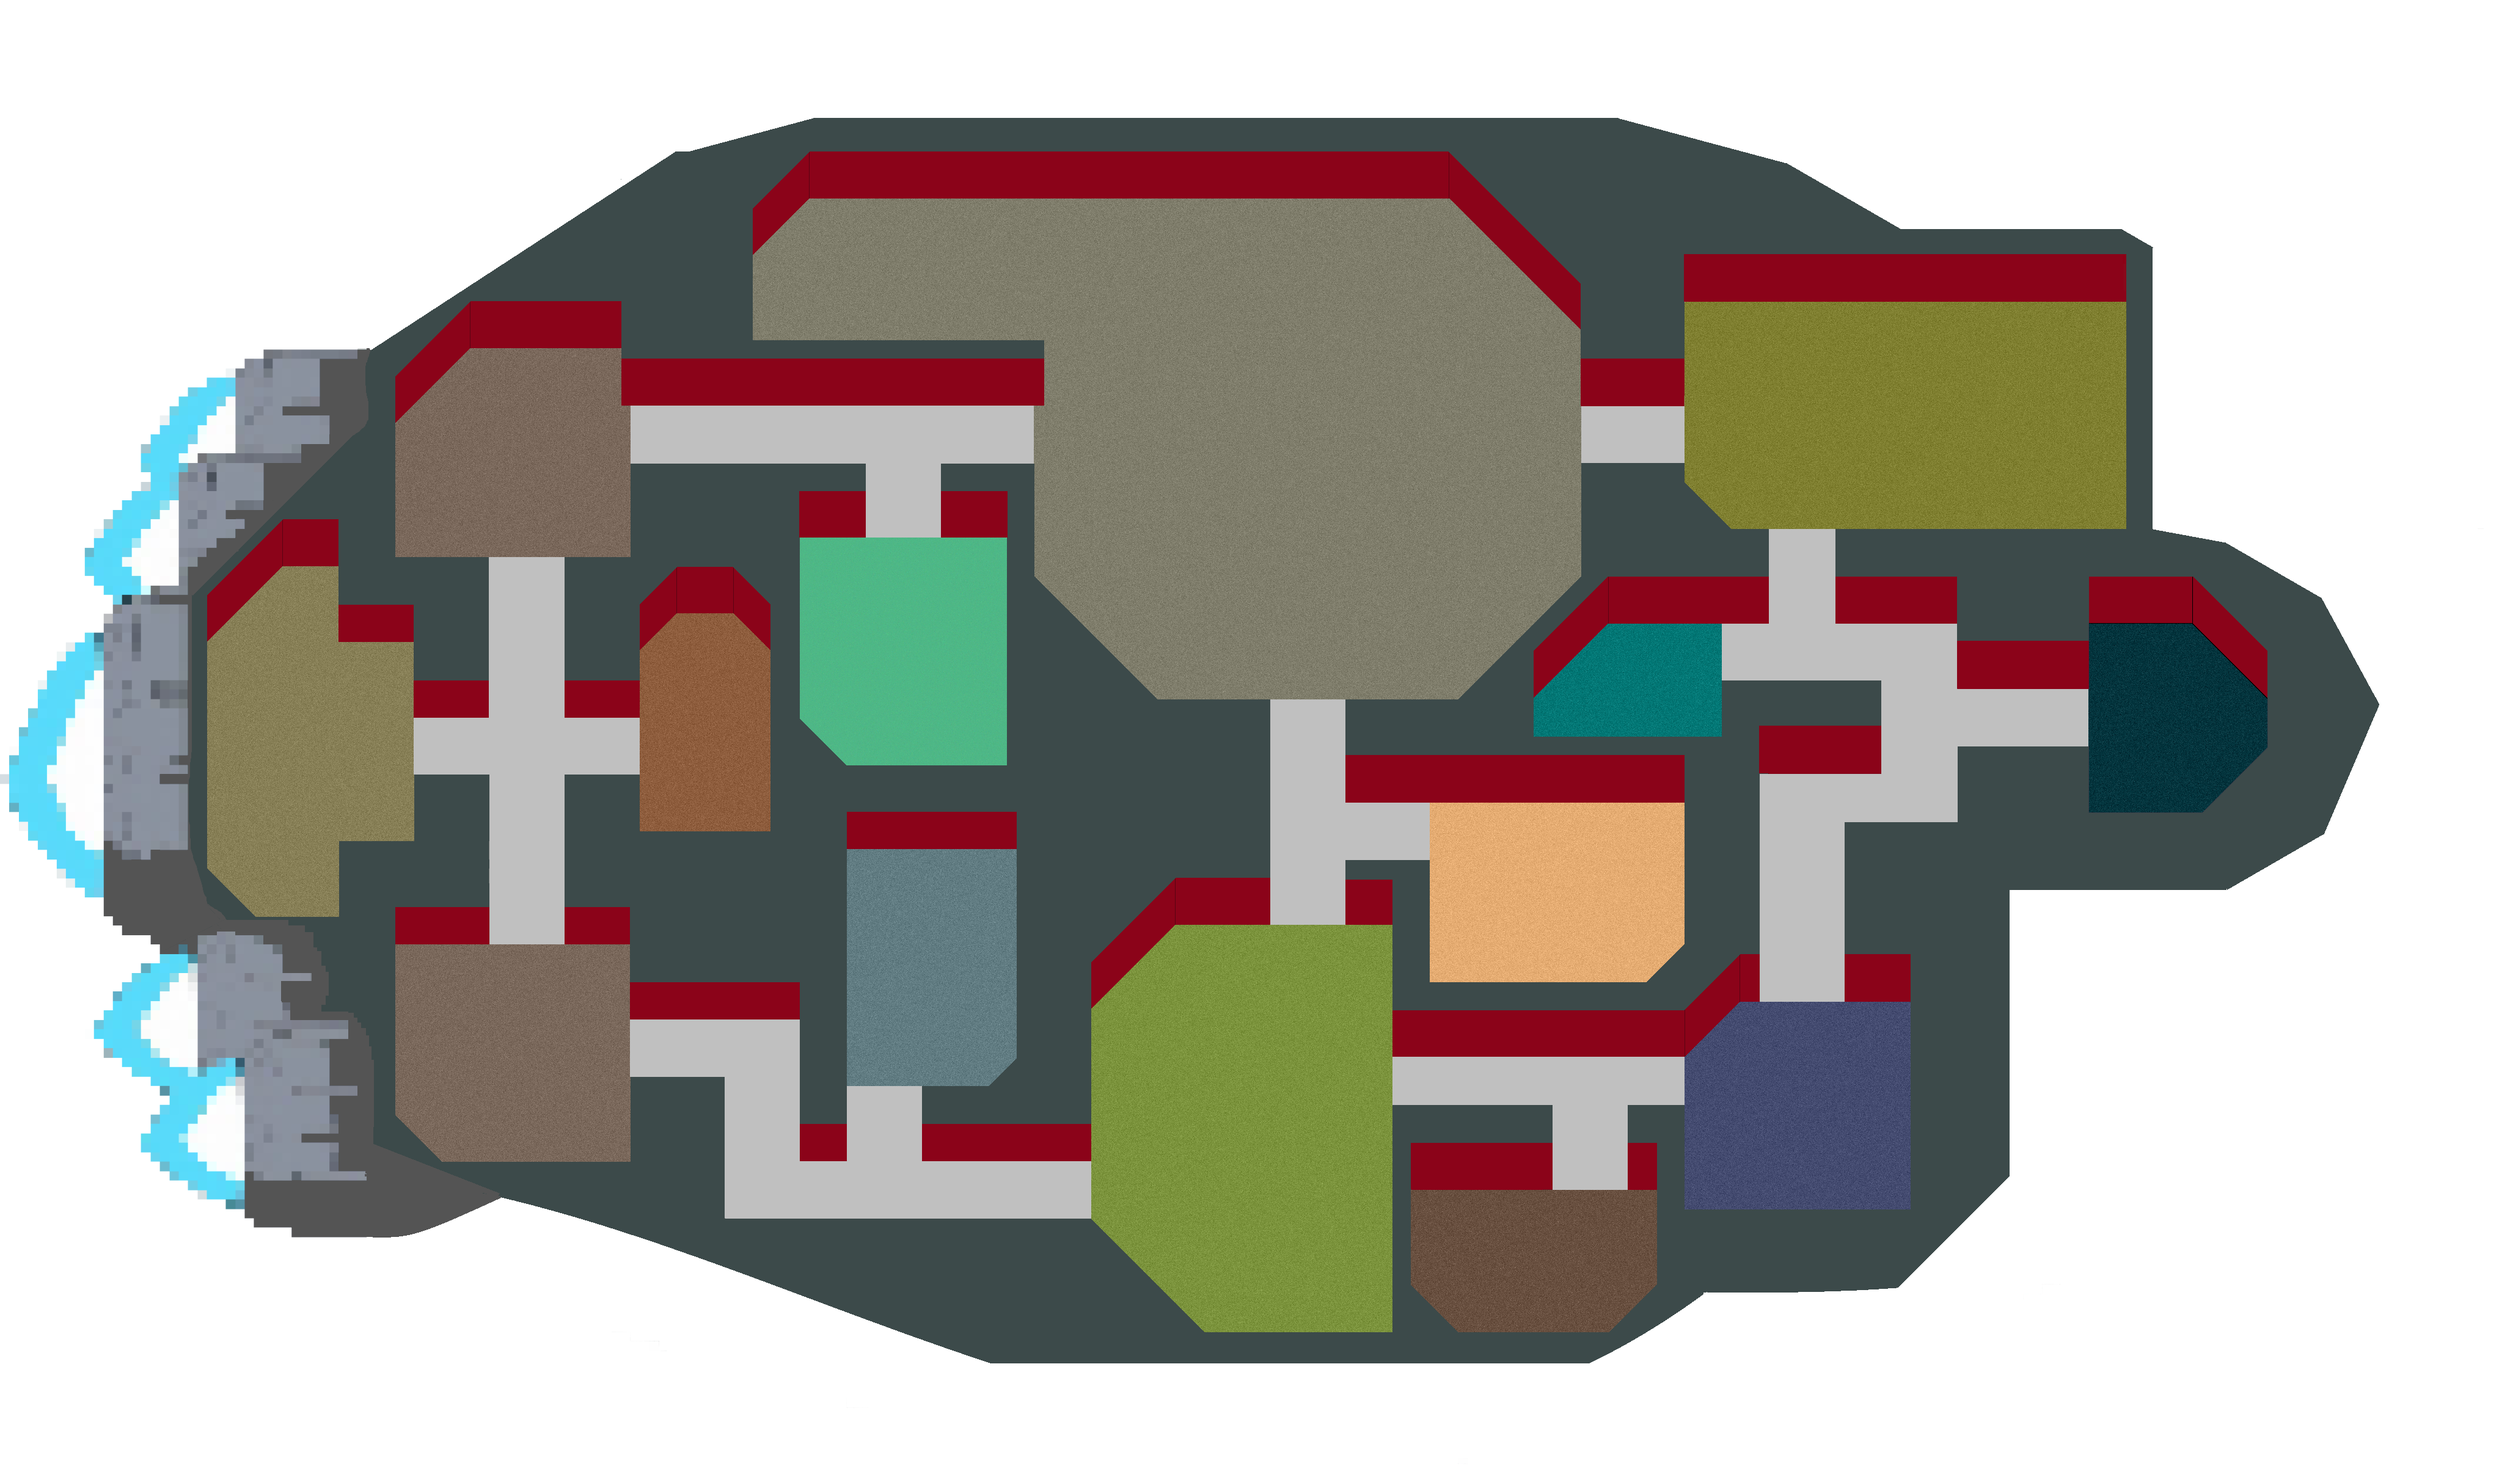
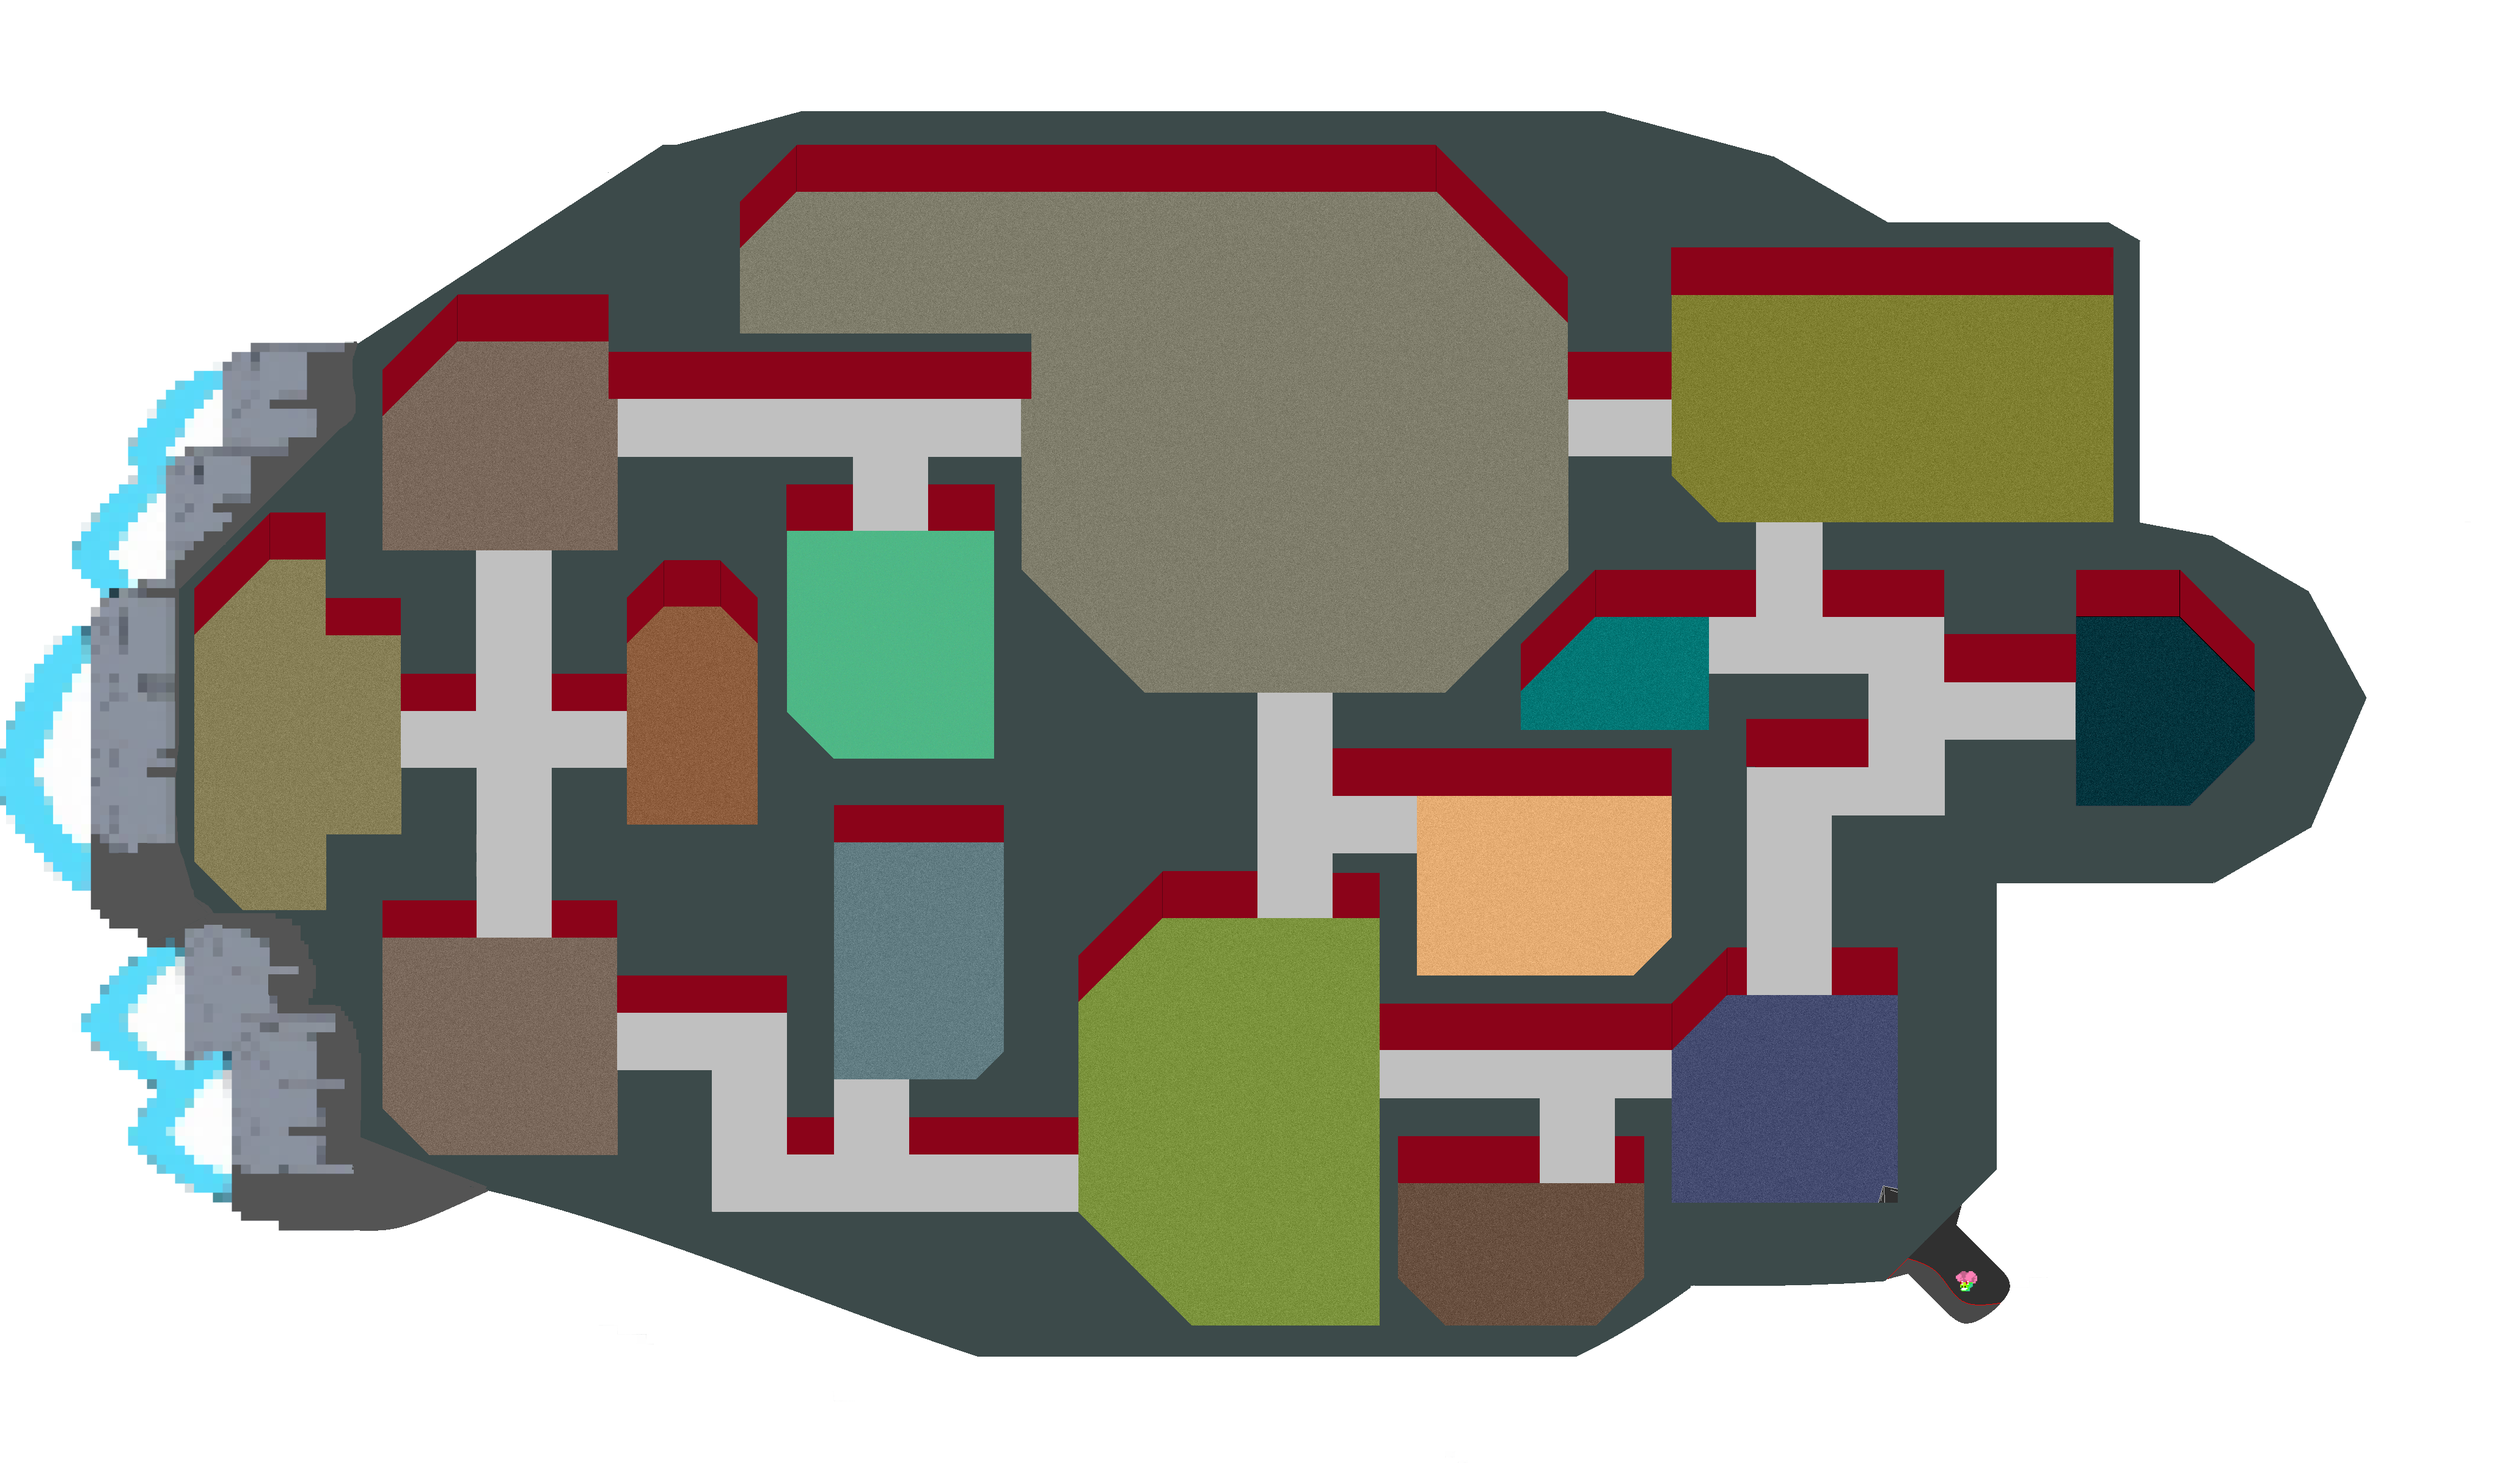
Ajout des spawner d'aliens && ajout dans la map d'une capsule d'abordage

diff --git a/src/game/entity/AliensSpawner.js b/src/game/entity/AliensSpawner.js
@@ -1,0 +1,89 @@
+import { Sprite, Text, useTick } from '@pixi/react'
+import { TextStyle } from 'pixi.js'
+import React, { useMemo, useState } from 'react'
+import { aliens, aliens1, blue, blue1, dirt, green, green1, superAliens, yellow, yellow1 } from '../../assets'
+import { ALIENS_TYPES, DUMMIES_TYPES, SPWANERS as ALIENS_TYYPE } from '../../AppConstant'
+import useAliensState, { aliensAction } from '../../hooks/gameState/useAliensState'
+
+const START_DIRT_OFFSET = 4
+const MAX_DIRT_OFFSET = -2
+
+const AlienSpwanner = ({
+    x,
+    y,
+    type,
+    timer,
+    maxSpawn = 1,
+}) => {
+    const [dirtOffset, setDirtOffset] = useState(START_DIRT_OFFSET)
+    const aliensStates = useAliensState()
+
+    const alienImage = useMemo(() => {
+        switch (type) {
+            case ALIENS_TYPES.ALIENS: return aliens1
+            case ALIENS_TYPES.ARALIENS: return superAliens
+            default: return aliens1 // todo default image
+        }
+    }, [type])
+
+    const spawnerImage = useMemo(() => {
+        return aliens
+    }, [type])
+
+    const nbAliens = useMemo(() => {
+        return aliensStates.filter(d => d.type === type).length
+    }, [aliensStates, type])
+
+    useTick(delta => {
+        if (nbAliens >= maxSpawn) return
+
+        if (dirtOffset > MAX_DIRT_OFFSET) {
+            setDirtOffset(prev => prev - delta / timer)
+            return
+        }
+
+        setDirtOffset(START_DIRT_OFFSET)
+        aliensAction.add({
+            pos: { x, y },
+            target: { x: x + 20, y },
+            type,
+        })
+    })
+
+    return (
+        <>
+            <Sprite
+                image={spawnerImage}
+                anchor={0.5}
+                scale={0.6}
+                x={x}
+                y={y}
+            />
+            <Text
+                text={`Limit: ${maxSpawn}`}
+                x={x - 10}
+                y={y + 10}
+                scale={0.1}
+                style={
+                    new TextStyle({
+                        align: 'center',
+                        fontSize: 40,
+                        fill: '#000000',
+                        letterSpacing: 5,
+                        wordWrap: true,
+                        wordWrapWidth: 440,
+                    })
+                }
+            />
+            <Sprite
+                image={alienImage}
+                anchor={0.5}
+                scale={0.18}
+                x={x}
+                y={y + dirtOffset}
+            />
+        </>
+    )
+}
+
+export default AlienSpwanner

diff --git a/src/game/entity/Aliens.js b/src/game/entity/Aliens.js
@@ -1,0 +1,71 @@
+import { AnimatedSprite, Container, Graphics, useTick } from '@pixi/react'
+import React, { memo, useCallback, useEffect, useMemo, useRef } from 'react'
+import { ALIENS, ALIENS_TYPES, DUMMIES_TYPES, GRID, PLAYER } from '../../AppConstant'
+import { formatPath } from '../../utils/GridUtil'
+import { aliens1, aliens2, superAliens, superAliens2, } from '../../assets'
+import aStar from '../../utils/pathfinding/AStart'
+import { aliensAction } from '../../hooks/gameState/useAliensState'
+
+const Aliens = ({
+    id,
+    pos,
+    type,
+    target,
+}) => {
+    const path = useRef([]) // opti
+
+    useEffect(() => {
+        const newPath = formatPath(aStar.search(pos, target))
+        path.current = newPath
+    }, [target])
+
+    const images = useMemo(() => {
+        switch (type) {
+            case ALIENS_TYPES.ALIENS: return [aliens1, aliens2]
+            case ALIENS_TYPES.ARALIENS: return [superAliens, superAliens2]
+            default: return [aliens1, aliens2]
+        }
+    }, [type])
+
+    useTick(delta => {
+        if (!path.current.length) return
+
+        const firstPath = path.current[0]
+
+        const distX = firstPath.x - pos.x
+        const distY = firstPath.y - pos.y
+
+        const mag = Math.sqrt(distX * distX + distY * distY)
+        const distNormalize = {
+            x: distX / mag,
+            y: distY / mag,
+        }
+
+        const moveX = distNormalize.x * delta * ALIENS.SPEED
+        const moveY = distNormalize.y * delta * ALIENS.SPEED
+
+        if (Math.abs(moveX) >= Math.abs(distX) && Math.abs(moveY) >= Math.abs(distY)) {
+            path.current = path.current.slice(1)
+            aliensAction.update(id, { pos: { x: firstPath.x, y: firstPath.y } })
+            return
+        }
+        aliensAction.update(id, { pos: { x: pos.x + moveX, y: pos.y + moveY } })
+    })
+
+    return (
+        <>
+            <Container position={[pos.x, pos.y]}>
+                <AnimatedSprite
+                    anchor={0.5}
+                    images={images}
+                    isPlaying={!!path.current.length}
+                    initialFrame={0}
+                    scale={0.3}
+                    animationSpeed={0.2}
+                />
+            </Container>
+        </>
+    )
+}
+
+export default memo(Aliens)

diff --git a/src/game/Game.js b/src/game/Game.js
@@ -13,6 +13,9 @@ import Dummy from './entity/Dummy'
 import useDummiesState, { dummiesAction } from '../hooks/gameState/useDummiesState'
 import { playerAction } from '../hooks/gameState/usePlayerState'
 import useGameState, { gameStateAction } from '../hooks/gameState/useGameState'
+import Aliens from './entity/Aliens'
+import useAliensState from '../hooks/gameState/useAliensState'
+import AlienSpwanner from './entity/AliensSpawner'
 // import GridBuilder from './map/GridBuilder'
 
 const PixiViewportComponent = PixiComponent('Viewport', {
@@ -73,6 +76,25 @@ const ClickManager = () => {
     }, [clickPos])
 
     return null
+}
+
+const AllAliens = () => {
+    const alienses = useAliensState()
+    return (
+        <>
+            {
+                alienses.map((alien, index) => (
+                    <Aliens
+                        key={index}
+                        id={alien.id}
+                        pos={alien.pos}
+                        target={alien.target}
+                        type={alien.type}
+                    />
+                ))
+            }
+        </>
+    )
 }
 
 const Dummies = () => {
@@ -144,10 +166,11 @@ const Game = ({
                     <DummySpawner {...SPWANERS.BLUE} />
                     <DummySpawner {...SPWANERS.GREEN} />
                     <DummySpawner {...SPWANERS.YELLOW} />
-                    {/* {SPWANERS.ALIENS.map((spawner) => (
-                        <Spawner {...spawner} />
-                    ))} */}
+                    {SPWANERS.ALIENS.map((spawner, index) => (
+                        <AlienSpwanner {...spawner}/>
+                    ))}
                     <Dummies />
+                    <AllAliens />
                     <Player />
                     {/* <Foreground /> */}
 

diff --git a/src/AppConstant.js b/src/AppConstant.js
@@ -9,6 +9,10 @@ const WORLD_SIZE = {
     HEIGHT: 693,
 }
 
+const ALIENS = {
+    SPEED: 2,
+}
+
 const PLAYER = {
     SPEED: 2,
     POSITION_START_X: 620,
@@ -28,7 +32,11 @@ const DUMMIES_TYPES = {
     BLUE: 0,
     GREEN: 1,
     YELLOW: 2,
-    ALIENS: 3
+}
+
+const ALIENS_TYPES = {
+    ALIENS: 0,
+    ARALIENS: 1,
 }
 
 const SPWANERS = {
@@ -36,10 +44,10 @@ const SPWANERS = {
     GREEN: { x: 700, y: 278, timer: 2000, maxSpawn: 2, type: DUMMIES_TYPES.GREEN },
     YELLOW: { x: 550, y: 278, timer: 100, maxSpawn: 5, type: DUMMIES_TYPES.YELLOW },
     ALIENS: [
-        { x: 915, y: 546, timer: 50, maxSpawn: 28, type: DUMMIES_TYPES.ALIENS },
-        { x: 117, y: 382, timer: 50, maxSpawn: 28, type: DUMMIES_TYPES.ALIENS },
-        { x: 1010, y: 160, timer: 50, maxSpawn: 28, type: DUMMIES_TYPES.ALIENS },
-        { x: 610, y: 610, timer: 50, maxSpawn: 28, type: DUMMIES_TYPES.ALIENS },
+        { x: 915, y: 546, timer: 50, maxSpawn: 28, type: ALIENS_TYPES.ALIENS },
+        { x: 117, y: 382, timer: 50, maxSpawn: 28, type: ALIENS_TYPES.ARALIENS },
+        { x: 1010, y: 160, timer: 50, maxSpawn: 28, type: ALIENS_TYPES.ARALIENS },
+        { x: 610, y: 610, timer: 50, maxSpawn: 28, type: ALIENS_TYPES.ALIENS },
     ],
 }
 
@@ -101,4 +109,6 @@ export {
     GRID,
     ENTITY,
     POSITION,
+    ALIENS,
+    ALIENS_TYPES,
 }

diff --git a/src/hooks/gameState/useAliensState.js b/src/hooks/gameState/useAliensState.js
@@ -34,8 +34,8 @@ const aliensAction = {
         aliens = aliens.filter(d => d.id !== id)
         emitChange()
     },
-    update: (id, newAlien) => {
-        aliens = aliens.map(alien => alien.id === id ? newAlien : alien)
+    update: (id, change) => {
+        aliens = aliens.map(alien => alien.id === id ? { ...alien, ...change } : alien)
         emitChange()
     },
 }

diff --git a/src/game/entity/Spawner.js b/src/game/entity/Spawner.js
@@ -112,5 +112,3 @@ const Spawner = forwardRef((props, ref) => {
         </>
     )
 })
-
-export default Spawner

diff --git a/src/game/entity/index.js b/src/game/entity/index.js
@@ -3,5 +3,4 @@ import Spawner from './Spawner'
 
 export {
     Player,
-    Spawner,
 }
